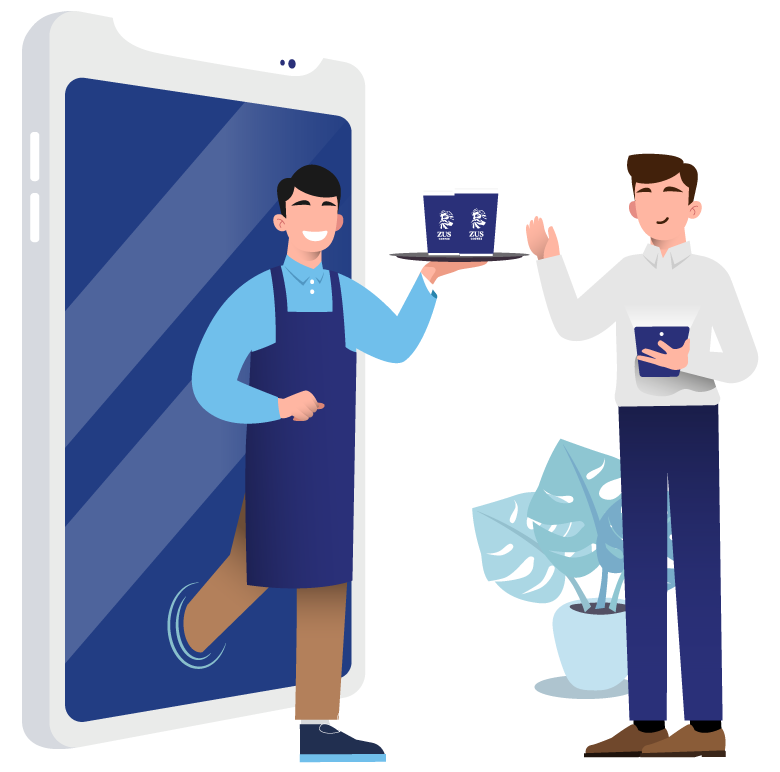
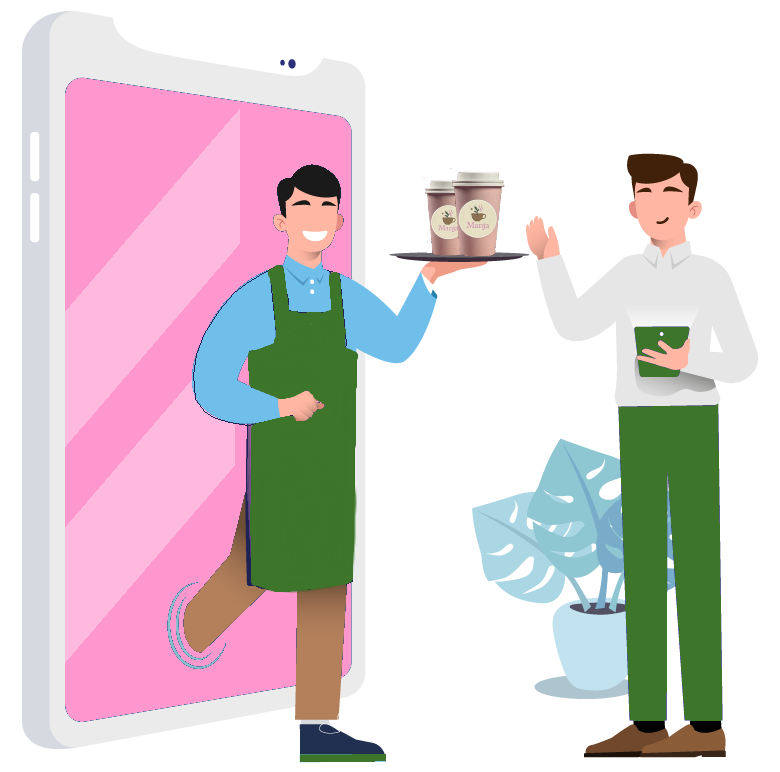
updated

diff --git a/index.html b/index.html
@@ -4,13 +4,13 @@
   <meta charset="UTF-8" />
   <meta name="viewport" content="width=device-width, initial-scale=1.0"/>
   <title>Manja Coffee</title>
-  <link href="https://unpkg.com/aos@2.3.1/dist/aos.css" rel="stylesheet">
   <link rel="stylesheet" href="./css/style.css" />
+  <link rel="stylesheet" href="https://cdnjs.cloudflare.com/ajax/libs/aos/2.3.4/aos.css" integrity="sha512-1cK78a1o+ht2JcaW6g8OXYwqpev9+6GqOkz9xmBN9iUUhIndKtxwILGWYOSibOKjLsEdjyjZvYDq/cZwNeak0w==" crossorigin="anonymous" referrerpolicy="no-referrer" />
 </head>
 <body>
 
   <header class="navbar">
-    <div class="nav-left" data-aos="fade-down" data-aos-delay="300">
+    <div class="nav-left" data-aos="fade-down">
       <a href="#">ABOUT US</a>
       <a href="#">MENU</a>
       <a href="#">REWARDS</a>
@@ -18,7 +18,7 @@
       <a href="#">MERCHANDISE</a>
     </div>
     <div class="logo" data-aos="fade-down">
-      <img src="./images/logo.png" alt="Manja Logo" />
+      <img src="./images/logo.jpg" alt="Manja Logo" />
     </div>
     <div class="nav-right" data-aos="fade-down">
       <a href="#">FIND A STORE</a>
@@ -40,10 +40,10 @@
   <section class="hero">
     <div class="overlay"></div>
     <div class="hero-content">
-      <h2>
+      <h2 data-aos="fade-down" data-aos-delay="1000">
         We don’t just brew coffee. We create a reason to stay.
       </h2>
-      <p>
+      <p data-aos="fade-down" data-aos-delay="1200">
         Manja is a space where taste matters more than haste, and every sip feels like a deep breath in the middle of your day.
       </p>
       <button class="btn-primary">Get Manja Coffee!</button>
@@ -68,9 +68,9 @@
         <!-- Slide 1 -->
         <div class="slide">
           <div class="drink-card">
-            <img src="https://media.canva.com/v2/image-resize/format:PNG/height:800/quality:100/uri:ifs%3A%2F%2FM%2F982af3a0-3d32-495c-9df2-7457d7d8d1b3/watermark:F/width:437?csig=AAAAAAAAAAAAAAAAAAAAADdpGHpXmCouEnphDc4yLjUVw6_GGoBek9sjZNU-OQNL&exp=1749043328&osig=AAAAAAAAAAAAAAAAAAAAAPz83sK4v-WTz3oADSRRTscsbn4d00Xa5WggH3gLkzQ5&signer=media-rpc&x-canva-quality=screen" alt="Creamy Mango" />
-            <div class="drink-title">Creamy Mango</div>
-            <div class="drink-info">Coffee-Free, Kids</div>
+            <img src="https://media.canva.com/v2/image-resize/format:PNG/height:800/quality:100/uri:ifs%3A%2F%2FM%2F982af3a0-3d32-495c-9df2-7457d7d8d1b3/watermark:F/width:437?csig=AAAAAAAAAAAAAAAAAAAAAHnf7-GTyWF8636sA-W2gJdUqKV9fDxdPaZIore-ZUmS&exp=1749057728&osig=AAAAAAAAAAAAAAAAAAAAAORz-nxo14q6iYZiCNfsT5rsAFPcAXjoY_nKUb71_T4K&signer=media-rpc&x-canva-quality=screen" alt="Creamy Mango" />
+            <div class="drink-title">Focused Manja</div>
+            <div class="drink-info">RM 15</div>
             <div class="divider"></div>
             <div class="drink-info">Ice/Hot</div>
           </div>
@@ -78,19 +78,19 @@
         <!-- Slide 2 -->
         <div class="slide">
           <div class="drink-card">
-            <img src="https://media.canva.com/v2/image-resize/format:PNG/height:800/quality:100/uri:ifs%3A%2F%2FM%2F982af3a0-3d32-495c-9df2-7457d7d8d1b3/watermark:F/width:437?csig=AAAAAAAAAAAAAAAAAAAAADdpGHpXmCouEnphDc4yLjUVw6_GGoBek9sjZNU-OQNL&exp=1749043328&osig=AAAAAAAAAAAAAAAAAAAAAPz83sK4v-WTz3oADSRRTscsbn4d00Xa5WggH3gLkzQ5&signer=media-rpc&x-canva-quality=screen" alt="Creamy Mango" />
-            <div class="drink-title">ZERO Frappé</div>
-            <div class="drink-info">ZERO Milk</div>
+            <img src="./images/coffee1.webp" alt="Creamy Mango" class="drink-card-img-2"/>
+            <div class="drink-title">Stressed Manja Shot</div>
+            <div class="drink-info">RM 10</div>
             <div class="divider"></div>
-            <div class="drink-info">Ice</div>
+            <div class="drink-info">Hot</div>
           </div>
         </div>
         <!-- Slide 3 -->
         <div class="slide">
           <div class="drink-card">
-            <img src="https://media.canva.com/v2/image-resize/format:PNG/height:800/quality:100/uri:ifs%3A%2F%2FM%2F982af3a0-3d32-495c-9df2-7457d7d8d1b3/watermark:F/width:437?csig=AAAAAAAAAAAAAAAAAAAAADdpGHpXmCouEnphDc4yLjUVw6_GGoBek9sjZNU-OQNL&exp=1749043328&osig=AAAAAAAAAAAAAAAAAAAAAPz83sK4v-WTz3oADSRRTscsbn4d00Xa5WggH3gLkzQ5&signer=media-rpc&x-canva-quality=screen" alt="Creamy Mango" />
-            <div class="drink-title">Spanish Latté</div>
-            <div class="drink-info">Top Picks</div>
+            <img src="./images/coffee2.webp" alt="Creamy Mango" class="drink-card-img-3"/>
+            <div class="drink-title">Happy Manja Hazelnut</div>
+            <div class="drink-info">RM 13</div>
             <div class="divider"></div>
             <div class="drink-info">Ice/Hot</div>
           </div>
@@ -98,29 +98,9 @@
         <!-- Slide 4 -->
         <div class="slide">
           <div class="drink-card">
-            <img src="https://media.canva.com/v2/image-resize/format:PNG/height:800/quality:100/uri:ifs%3A%2F%2FM%2F982af3a0-3d32-495c-9df2-7457d7d8d1b3/watermark:F/width:437?csig=AAAAAAAAAAAAAAAAAAAAADdpGHpXmCouEnphDc4yLjUVw6_GGoBek9sjZNU-OQNL&exp=1749043328&osig=AAAAAAAAAAAAAAAAAAAAAPz83sK4v-WTz3oADSRRTscsbn4d00Xa5WggH3gLkzQ5&signer=media-rpc&x-canva-quality=screen" alt="Creamy Mango" />
-            <div class="drink-title">Matcho Latté</div>
-            <div class="drink-info">Coffee-Free</div>
-            <div class="divider"></div>
-            <div class="drink-info">Ice/Hot</div>
-          </div>
-        </div>
-        <!-- Slide 5 -->
-        <div class="slide">
-          <div class="drink-card">
-            <img src="https://media.canva.com/v2/image-resize/format:PNG/height:800/quality:100/uri:ifs%3A%2F%2FM%2F982af3a0-3d32-495c-9df2-7457d7d8d1b3/watermark:F/width:437?csig=AAAAAAAAAAAAAAAAAAAAADdpGHpXmCouEnphDc4yLjUVw6_GGoBek9sjZNU-OQNL&exp=1749043328&osig=AAAAAAAAAAAAAAAAAAAAAPz83sK4v-WTz3oADSRRTscsbn4d00Xa5WggH3gLkzQ5&signer=media-rpc&x-canva-quality=screen" alt="Creamy Mango" />
-            <div class="drink-title">Matcho Latté</div>
-            <div class="drink-info">Coffee-Free</div>
-            <div class="divider"></div>
-            <div class="drink-info">Ice/Hot</div>
-          </div>
-        </div>
-        <!-- Slide 6 -->
-        <div class="slide">
-          <div class="drink-card">
-            <img src="https://media.canva.com/v2/image-resize/format:PNG/height:800/quality:100/uri:ifs%3A%2F%2FM%2F982af3a0-3d32-495c-9df2-7457d7d8d1b3/watermark:F/width:437?csig=AAAAAAAAAAAAAAAAAAAAADdpGHpXmCouEnphDc4yLjUVw6_GGoBek9sjZNU-OQNL&exp=1749043328&osig=AAAAAAAAAAAAAAAAAAAAAPz83sK4v-WTz3oADSRRTscsbn4d00Xa5WggH3gLkzQ5&signer=media-rpc&x-canva-quality=screen" alt="Creamy Mango" />
-            <div class="drink-title">Matcho Latté</div>
-            <div class="drink-info">Coffee-Free</div>
+            <img src="./images/coffee3.webp" alt="Creamy Mango" class="drink-card-img-4"/>
+            <div class="drink-title">Blue Manja Brew</div>
+            <div class="drink-info">RM 14</div>
             <div class="divider"></div>
             <div class="drink-info">Ice/Hot</div>
           </div>
@@ -129,8 +109,8 @@
     </div>
 
     <div class="nav-buttons">
-      <button onclick="prevSlide()">‹ Prev</button>
-      <button onclick="nextSlide()">Next ›</button>
+      <button onclick="prevSlide()">< Prev</button>
+      <button onclick="nextSlide()">Next > </button>
     </div>
   </section>
   <section class="wrapper">
@@ -232,8 +212,7 @@
     window.addEventListener('resize', updateSlider);
   </script>
 
-  <script src="https://unpkg.com/aos@2.3.1/dist/aos.js"></script>
-  <script>
+  <script src="https://cdnjs.cloudflare.com/ajax/libs/aos/2.3.4/aos.js" integrity="sha512-A7AYk1fGKX6S2SsHywmPkrnzTZHrgiVT7GcQkLGDe2ev0aWb8zejytzS8wjo7PGEXKqJOrjQ4oORtnimIRZBtw==" crossorigin="anonymous" referrerpolicy="no-referrer"></script>  <script>
     AOS.init();
   </script>
 

diff --git a/css/style.css b/css/style.css
@@ -1,6 +1,8 @@
-@import url('https://fonts.googleapis.com/css2?family=Pacifico&family=Roboto+Condensed:ital,wght@0,100..900;1,100..900&family=Roboto:ital,wght@0,100..900;1,100..900&display=swap');
+@import url('https://fonts.googleapis.com/css2?family=Bebas+Neue&family=Pacifico&family=Roboto+Condensed:ital,wght@0,100..900;1,100..900&family=Roboto:ital,wght@0,100..900;1,100..900&display=swap');
+
 *{
-  font-family: "Roboto Light", "Segoe UI", sans-serif;
+  font-family: "Bebas Neue", "Segoe UI", sans-serif;
+  letter-spacing: 2px;
 }
 
 body{
@@ -8,7 +10,8 @@ body{
   padding: 0;
   width: 100vw;
   height: 100vh;
-  background-color: #ffffff;
+  background-color: #f8efde;
+  overflow-x: hidden;
 }
 
 .navbar {
@@ -16,7 +19,7 @@ body{
   justify-content: space-between;
   align-items: center;
   padding: 5px 10px;
-  background-color: #ffffff;
+  background-color: #f8efde;
   position: fixed;
   top: 0;
   width: 99%;
@@ -29,7 +32,7 @@ body{
   margin: 0 10px;
   color: #000000;
   text-decoration: none;
-  font-size: 14px;
+  font-size: 16px;
 }
 
 .logo img {
@@ -38,7 +41,7 @@ body{
 }
 
 .btn-buy {
-  background-color: #2b358c;
+  background-color: #366e2a;
   color: white;
   border: none;
   padding: 8px 16px;
@@ -98,14 +101,14 @@ body{
 
 .hero-content {
   position: relative;
-  color: white;
+  color: #f8efde !important;
   text-align: center;
   z-index: 2;
   padding: 0 20px;
 }
 
 .hero-content h1 {
-  font-size: 48px;
+  font-size: 64px;
   margin-bottom: 20px;
 }
 
@@ -117,7 +120,7 @@ body{
 .btn-primary {
   margin-top: 20px;
   padding: 12px 24px;
-  background-color: #2b358c;
+  background-color: #3d752b;
   border: none;
   border-radius: 25px;
   color: white;
@@ -129,7 +132,7 @@ body{
 .counter-container {
   font-size: 48px;
   font-weight: bold;
-  color: #1a237e;
+  color: #fd97cd;
 }
 
 .label {
@@ -154,11 +157,15 @@ body{
 .section {
   padding: 60px 20px;
   text-align: center;
+
 }
 
+.counter-section h1{
+  font-size: 3rem;
+}
 .section h2 {
   font-size: 2.5rem;
-  color: #1a237e;
+  color: #fd97cd ;
   margin-bottom: 10px;
 }
 
@@ -177,6 +184,7 @@ body{
 
 .slider-track {
   display: flex;
+  height: 400px;
   transition: transform 0.5s ease;
 }
 
@@ -198,16 +206,27 @@ body{
   width: 50%;
   border-radius: 10px;
 }
+.drink-card-img-2 {
+  padding: 65px 0 0 0;
+}
+
+.drink-card-img-3 {
+  width: 48% !important;
+}
+
+.drink-card-img-4{
+  width: 47% !important;
+}
 
 .drink-title {
   font-weight: bold;
   font-size: 1.1rem;
-  color: #1a237e;
+  color: #fd97cd;
   margin: 10px 0;
 }
 
 .drink-info {
-  font-size: 0.9rem;
+  font-size: 1rem;
   color: #555;
   margin-bottom: 5px;
 }
@@ -227,7 +246,7 @@ body{
   font-size: 16px;
   margin: 0 10px;
   border: none;
-  background: #1a237e;
+  background: #366e2a;
   color: white;
   border-radius: 5px;
   cursor: pointer;
@@ -248,7 +267,7 @@ body{
 }
 
 .pitch-box {
-  background-color: #1a237e;
+  background-color: #3d752b;
   color: white;
   border-radius: 15px;
   padding: 30px;
@@ -292,7 +311,7 @@ textarea {
 
 .submit-btn {
   background-color: #cbbba0;
-  color: white;
+  color: #000000;
   padding: 12px 30px;
   font-weight: bold;
   border: none;
@@ -312,7 +331,7 @@ textarea {
   text-align: center;
 }
 
-.side-box img.drinks {
+.side-box img .drinks {
   max-width: 50%;
   border-radius: 10px;
   margin-bottom: 15px;
@@ -346,8 +365,8 @@ textarea {
   flex-wrap: wrap;
   justify-content: space-between;
   padding: 30px 20px;
-  background-color: #fff;
-  border-top: 1px solid #dce5f4;
+  background-color: #f8efde;
+  border-top: 1px solid #f8efde;
   font-family: 'Segoe UI', sans-serif;
   font-size: 14px;
   color: #222;
